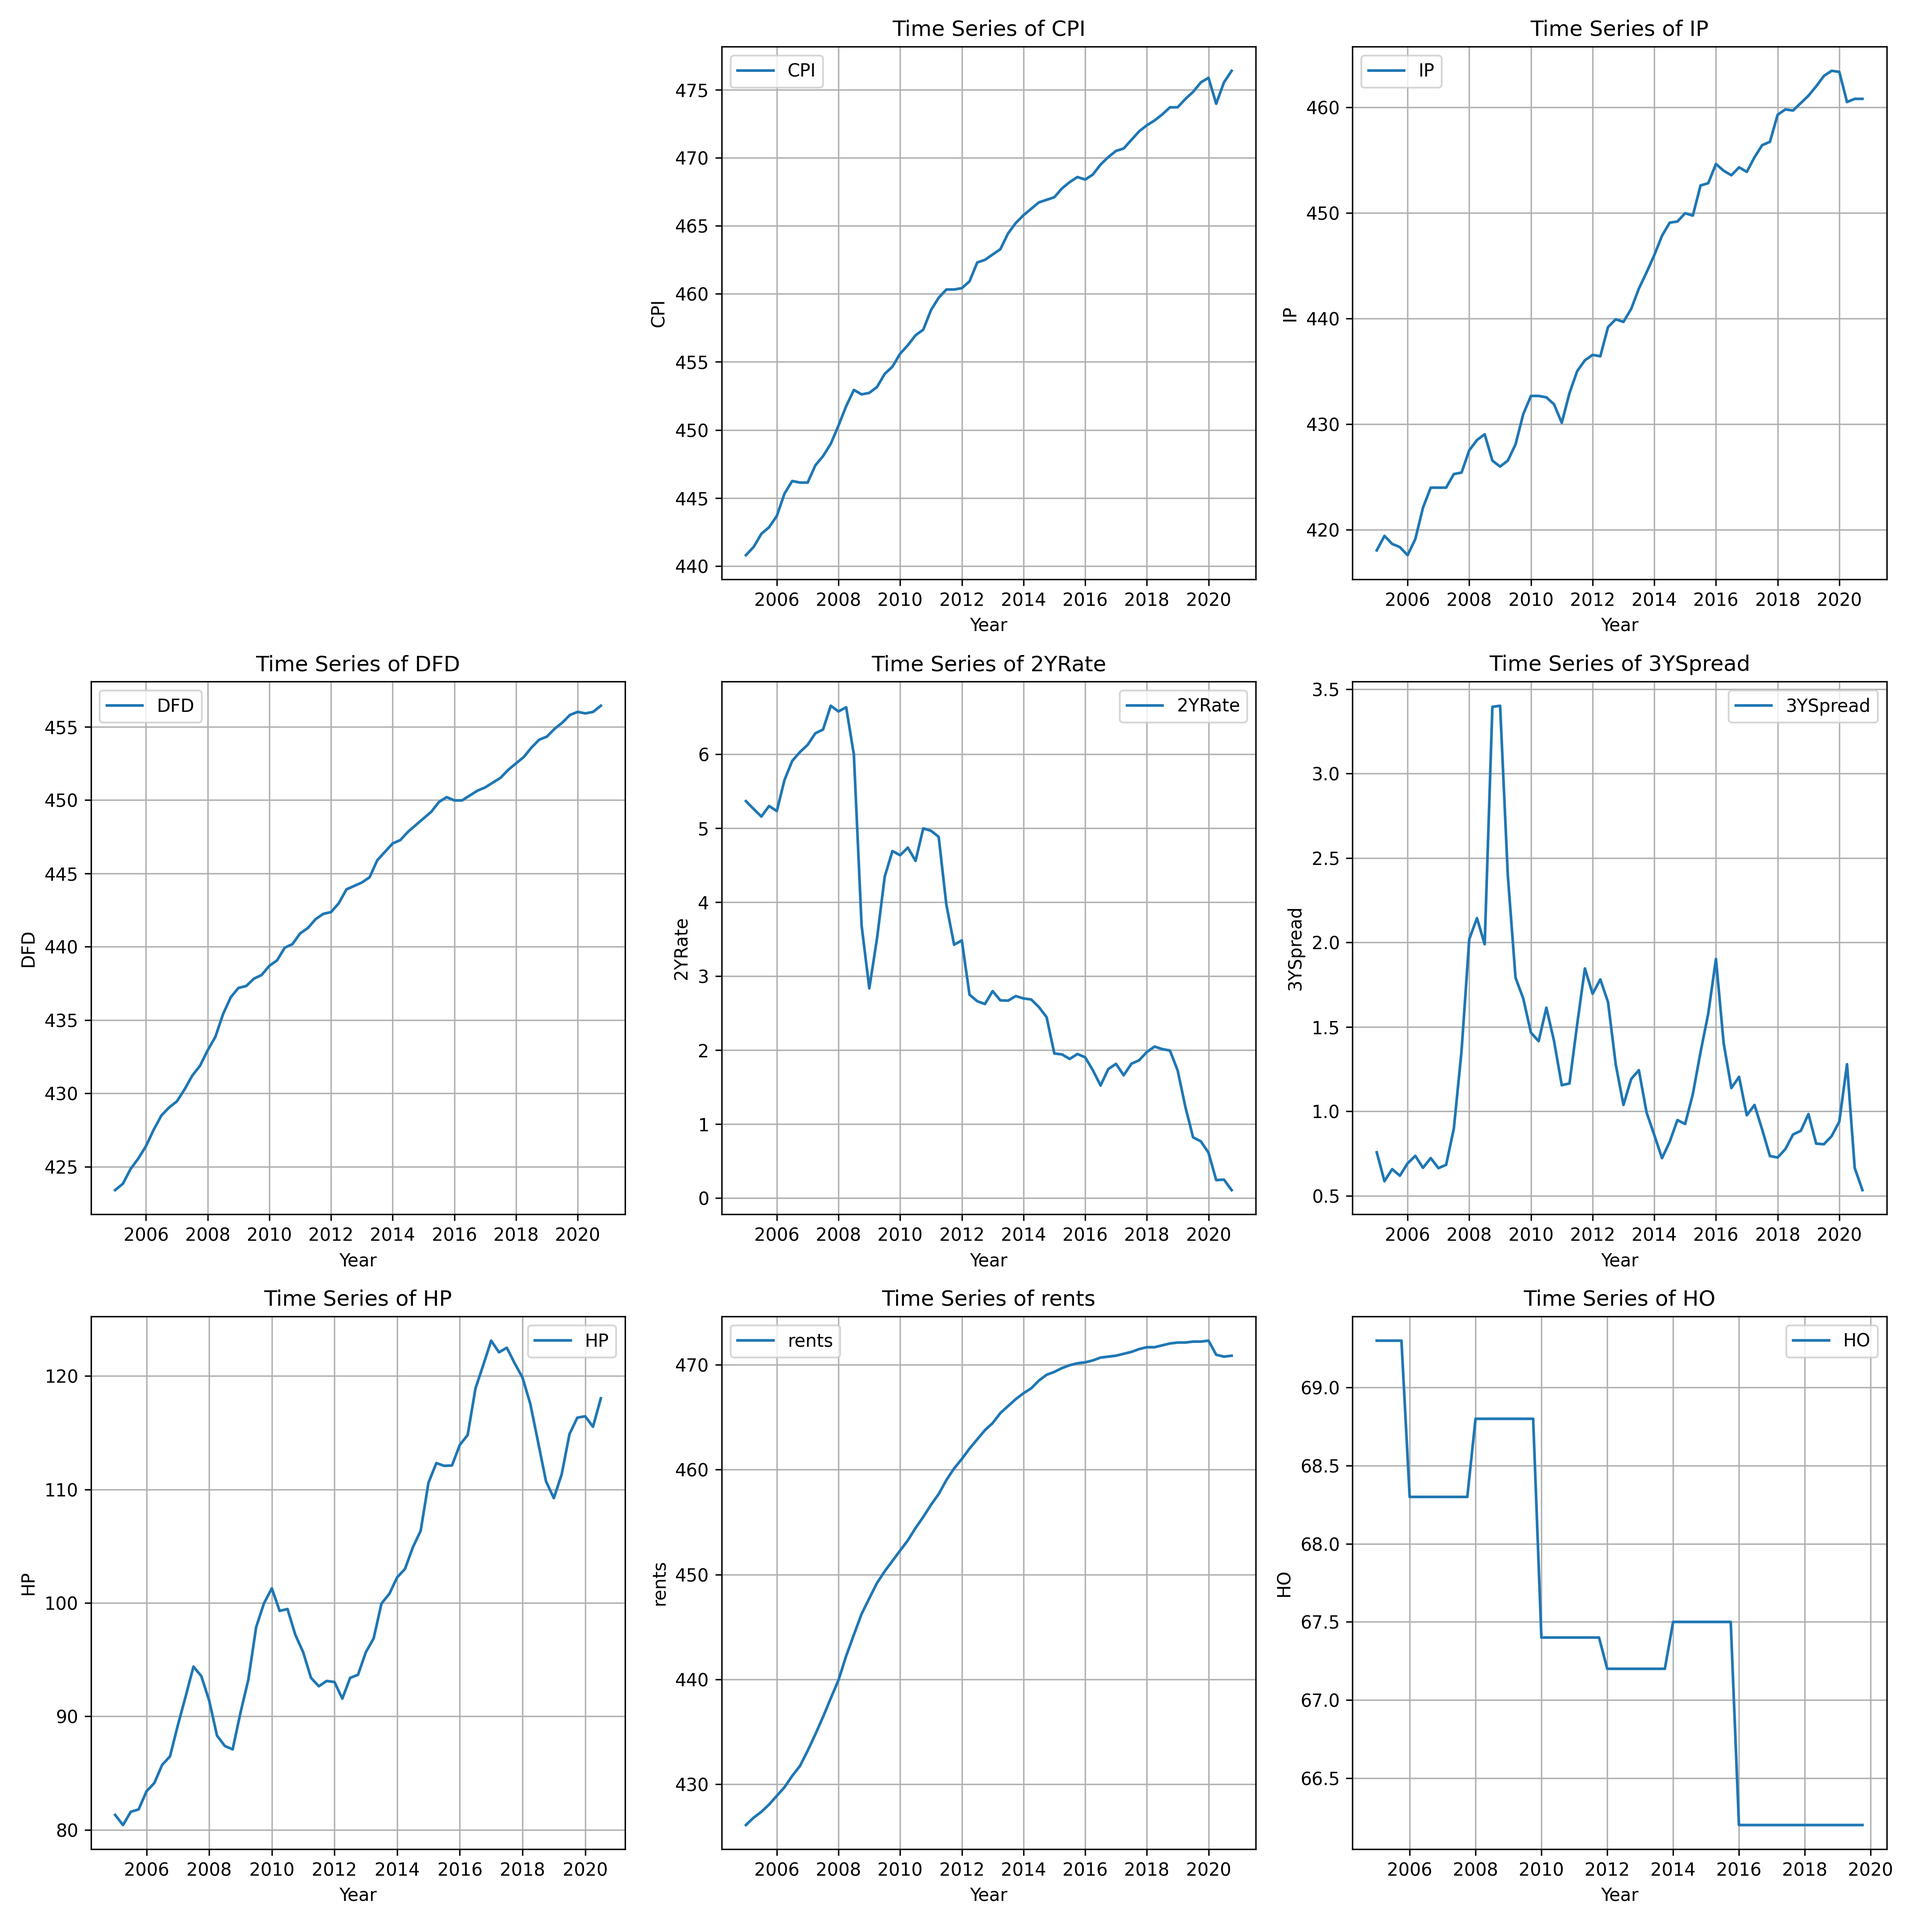
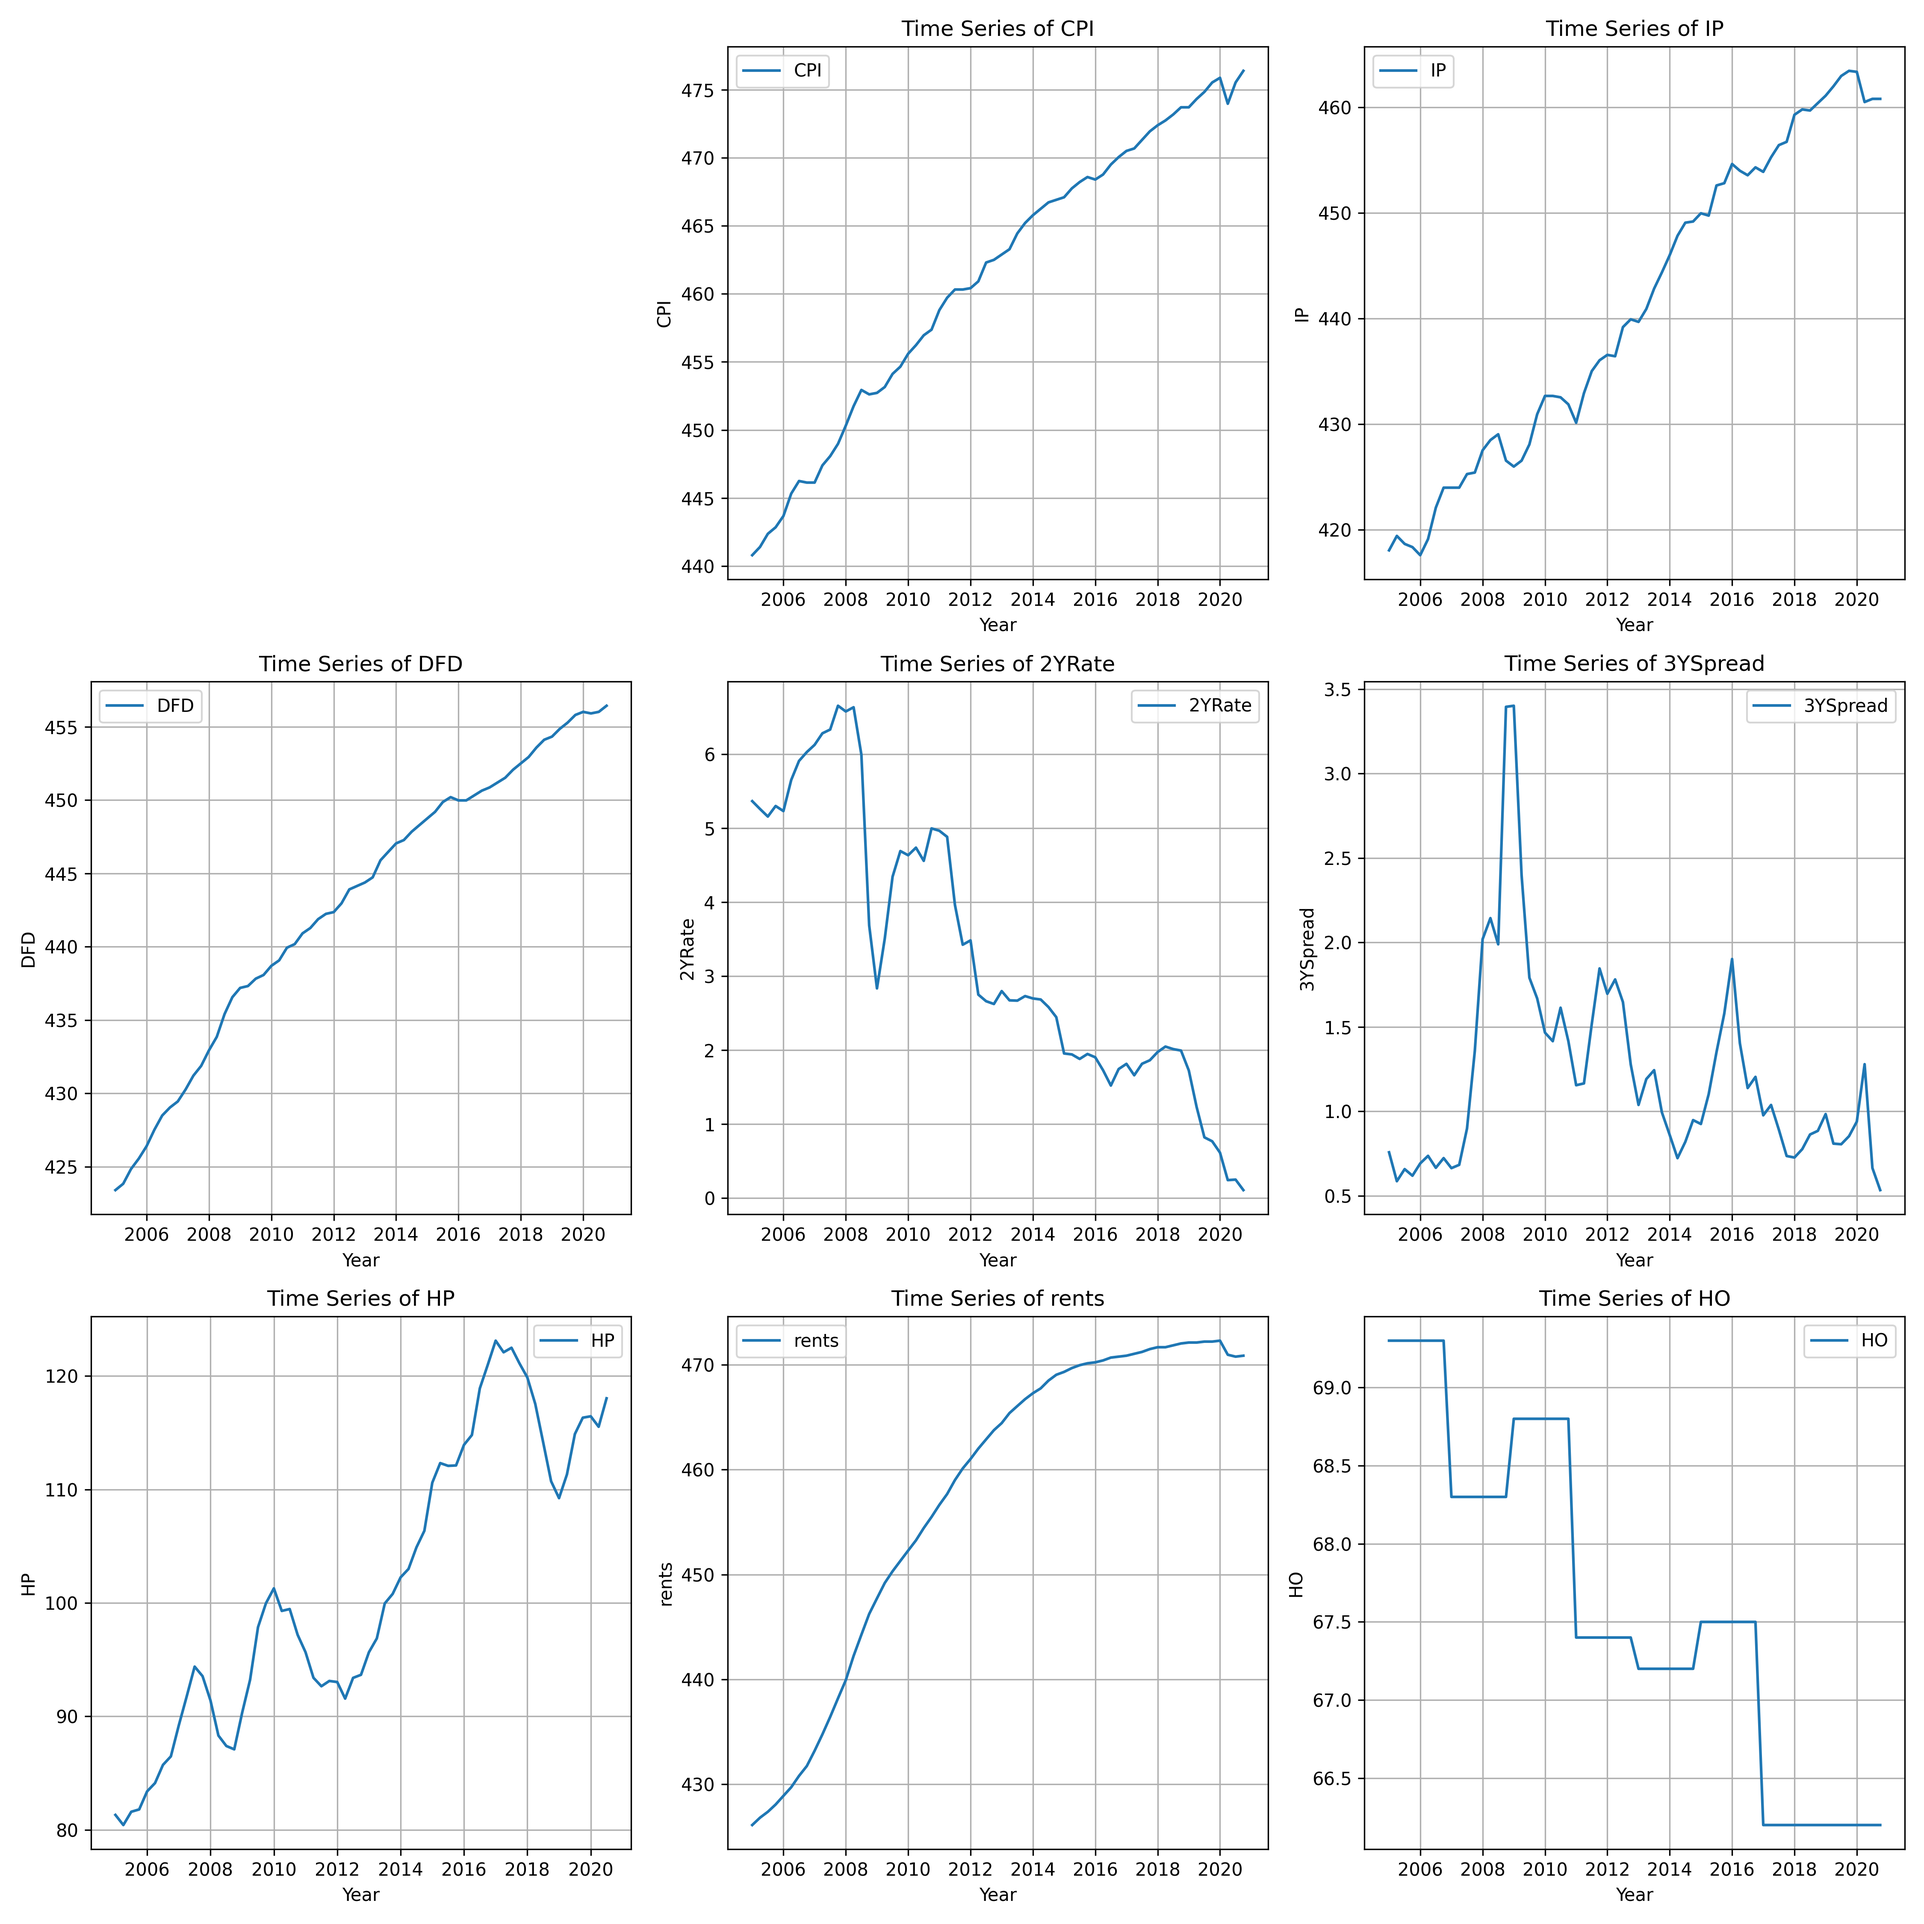
Fix: filter for correct dates Aus SVAR and comments

diff --git a/src/scripts/replicate_fig1_AUS.py b/src/scripts/replicate_fig1_AUS.py
@@ -31,6 +31,7 @@ import pandas as pd
 ## Read and transform quarterly data
 mdata_filepath = data_dir / "quarterly_data_AUS.xlsx"
 mdata = pd.read_excel(mdata_filepath)
+mdata = mdata.query("year<=2020 & quarter<=3")
 
 # Rename columns
 colnames = ['year', 'quarter', 'CPI', 'IP', 'DFD', '2YRate', '3YSpread', 'HP', 'rents', 'HO']
@@ -40,32 +41,32 @@ mdata.columns = colnames
 mdata.loc[:, ["CPI", "IP", "DFD", "rents"]] = np.log(mdata.loc[:,["CPI", "IP", "DFD", "rents"]])*100
 
 # %%
-# Plot Australian data to check for trending series
+# # Plot Australian data to check for trending series
 import matplotlib.pyplot as plt
 
-# Determine the number of subplots needed
-num_plots = len(mdata.columns) - 2  # Exclude 'year' and 'quarter'
-num_cols = 3  # Number of columns in the subplot grid
-num_rows = (num_plots + num_cols - 1) // num_cols  # Calculate the number of rows needed
+# # Determine the number of subplots needed
+# num_plots = len(mdata.columns) - 2  # Exclude 'year' and 'quarter'
+# num_cols = 3  # Number of columns in the subplot grid
+# num_rows = (num_plots + num_cols - 1) // num_cols  # Calculate the number of rows needed
 
-fig, axes = plt.subplots(num_rows, num_cols, figsize=(15, num_rows * 5))
-axes = axes.flatten()  # Flatten the axes array for easy iteration
+# fig, axes = plt.subplots(num_rows, num_cols, figsize=(15, num_rows * 5))
+# axes = axes.flatten()  # Flatten the axes array for easy iteration
 
-for i, column in enumerate(mdata.columns):
-    if column not in ['year', 'quarter']:
-        ax = axes[i-1]
-        ax.plot(mdata['year'] + (mdata['quarter'] - 1) / 4, mdata[column], label=column)
-        ax.set_xlabel('Year')
-        ax.set_ylabel(column)
-        ax.set_title(f'Time Series of {column}')
-        ax.legend()
-        ax.grid(True)
+# for i, column in enumerate(mdata.columns):
+#     if column not in ['year', 'quarter']:
+#         ax = axes[i-1]
+#         ax.plot(mdata['year'] + (mdata['quarter'] - 1) / 4, mdata[column], label=column)
+#         ax.set_xlabel('Year')
+#         ax.set_ylabel(column)
+#         ax.set_title(f'Time Series of {column}')
+#         ax.legend()
+#         ax.grid(True)
 
-# Remove any unused subplots
-axes.flat[0].set_visible(False) # to remove last plot
+# # Remove any unused subplots
+# axes.flat[0].set_visible(False) # to remove last plot
 
-plt.tight_layout()
-plt.savefig(outputs_dir / 'Check_AUS_data.png', dpi=300)
+# plt.tight_layout()
+# plt.savefig(outputs_dir / 'Check_AUS_data.png', dpi=300)
 
 # %%
 ## Read quarterly shock identification data

diff --git a/src/scripts/replicate_fig1.py b/src/scripts/replicate_fig1.py
@@ -40,30 +40,30 @@ mdata = mdata.query("year >=1983 & month>=1")
 # %%
 import matplotlib.pyplot as plt
 
-# Determine the number of subplots needed
-num_plots = len(mdata.columns) - 2  # Exclude 'year' and 'month'
-num_cols = 3  # Number of columns in the subplot grid
-num_rows = (num_plots + num_cols - 1) // num_cols  # Calculate the number of rows needed
+# # Determine the number of subplots needed
+# num_plots = len(mdata.columns) - 2  # Exclude 'year' and 'month'
+# num_cols = 3  # Number of columns in the subplot grid
+# num_rows = (num_plots + num_cols - 1) // num_cols  # Calculate the number of rows needed
 
-fig, axes = plt.subplots(num_rows, num_cols, figsize=(15, num_rows * 5))
-axes = axes.flatten()  # Flatten the axes array for easy iteration
+# fig, axes = plt.subplots(num_rows, num_cols, figsize=(15, num_rows * 5))
+# axes = axes.flatten()  # Flatten the axes array for easy iteration
 
-for i, column in enumerate(mdata.columns):
-    if column not in ['year', 'month']:
-        ax = axes[i-1]
-        ax.plot(mdata['year'] + (mdata['month'] - 1) / 12, mdata[column], label=column)
-        ax.set_xlabel('Year')
-        ax.set_ylabel(column)
-        ax.set_title(f'Time Series of {column}')
-        ax.legend()
-        ax.grid(True)
+# for i, column in enumerate(mdata.columns):
+#     if column not in ['year', 'month']:
+#         ax = axes[i-1]
+#         ax.plot(mdata['year'] + (mdata['month'] - 1) / 12, mdata[column], label=column)
+#         ax.set_xlabel('Year')
+#         ax.set_ylabel(column)
+#         ax.set_title(f'Time Series of {column}')
+#         ax.legend()
+#         ax.grid(True)
 
-# Remove any unused subplots
-axes.flat[0].set_visible(False) # to remove first plot
-axes.flat[-1].set_visible(False) # to remove last plot
+# # Remove any unused subplots
+# axes.flat[0].set_visible(False) # to remove first plot
+# axes.flat[-1].set_visible(False) # to remove last plot
 
-plt.tight_layout()
-plt.savefig(outputs_dir / 'Check_US_data.png', dpi=300)
+# plt.tight_layout()
+# plt.savefig(outputs_dir / 'Check_US_data.png', dpi=300)
 
 # %%
 ## Read monthly shock identification data

diff --git a/src/scripts/functions.py b/src/scripts/functions.py
@@ -59,6 +59,7 @@ def doProxySVAR(VAR):
 
     # VAR.bet   = [X VAR.DET(VAR.p+1:end,:)]\Y; performs OLS to calculate the VAR coefficients bet
     # Use the normal equation which is equivalent to the \ operator in MATLAB
+    # Eta in the paper
     bet = np.linalg.lstsq(X_with_det, Y_mat, rcond=None)[0]
     # Calculate the residuals 
     res = Y_mat - np.dot(X_with_det, bet)
@@ -191,8 +192,8 @@ def doProxySVARci(VAR, modelVAR, clevel, nboot, BlockSize):
 
     while jj < nboot + 1:
         # Draw bootstrapped residuals and proxies
-        # Generate random indices for selecting blocks
-
+        # Generate random indices for selecting blocks with replacement, 
+        # and equal prob on each element in the set the indices are drawn from
         index = (np.ceil(modelVAR.Tval - BlockSize + 1) * np.random.rand(nBlock, 1)).astype(int)
 
         U_boot = np.zeros((nBlock * BlockSize, modelVAR.n))
@@ -209,7 +210,7 @@ def doProxySVARci(VAR, modelVAR, clevel, nboot, BlockSize):
         # Center the bootstrapped residuals and proxies
         U_boot = U_boot - centering
 
-        # Loop through bootstrapping sample of proxies and center the non-zero values
+        # Loop through bootstrapping sample of proxies and center the non-zero values so that they have zero-mean. 
         for j in range(modelVAR.k):
             non_zero_indices = M_boot[:, j] != 0
             M_boot[non_zero_indices, j] = M_boot[non_zero_indices, j] - Mcentering[non_zero_indices, j]

diff --git a/src/scripts/replicate_fig2_AUS.py b/src/scripts/replicate_fig2_AUS.py
@@ -23,7 +23,7 @@ import pandas as pd
 ## Read and transform quarterly data
 mdata_filepath = data_dir / "quarterly_data_AUS.xlsx"
 mdata = pd.read_excel(mdata_filepath)
-mdata = mdata.query("year<2020")
+mdata = mdata.query("year<=2020 & quarter<=3")
 
 # Rename columns
 colnames = ['year', 'quarter', 'CPI', 'IP', 'DFD', '2YRate', '3YSpread', 'HP', 'rents', 'HO']
